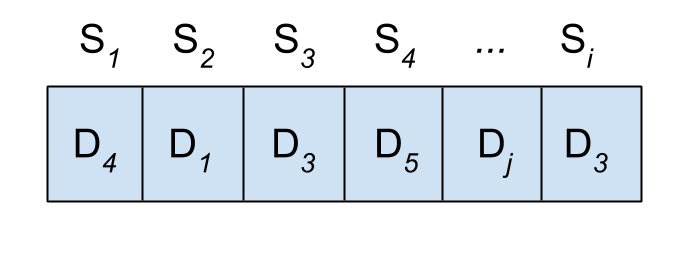
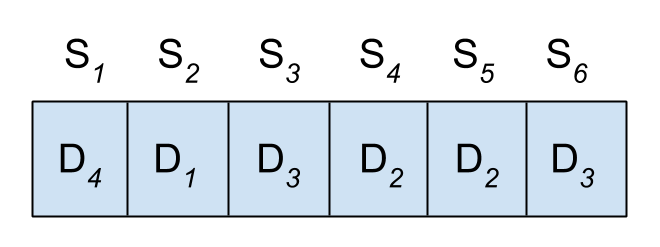
finished elenas/alexs comments, added disjoint cycles

Changed region(s): [[0.0303, 0.085, 0.9697, 0.9069], [0.0909, 0.085, 0.1818, 0.2834]]

diff --git a/SeniorSem2014.tex b/SeniorSem2014.tex
@@ -1,6 +1,6 @@
 \documentclass{sig-alternate}
 
-\title{Modern Techniques for Energy Optimization for Green Cloud Computing}
+\title{Modern Energy Optimization Techniques for Green Cloud Computing}
 
 \author{
 \alignauthor
@@ -20,16 +20,18 @@
 
 \begin{abstract}
 
-Place abstract here
+Energy consumption has become a growing concern for cloud computing data center as demand for instantaneous web-based services has increased. Energy optimization algorithms are used to reduce energy and make data centers more sustainable. Some algorithms focus on reducing power consumption of hardware while others use geographic location and renewable resources. 
+
+Our objective is to highlight two types of modern energy optimization algorithms that create a more sustainable, green cloud. 
 
 \end{abstract}
 
-\keywords{Cloud Computing, Green Computing}
+\keywords{Cloud Computing, Green Computing, Energy Optimization, Evolutionary Multi-Objective Algorithms}
 
 \section{Introduction} \label{sec:intro}
 
-Cloud Computing has been growing rapidly in the last several years in order to accommodate a growing demand for internet services. Due to this growth, larger data centers are required to meet demand. With larger data centers, an increasing amount power is necessary for these data centers to fulfill demands. In 2010, 1.5\% of all energy consumed worldwide was from data centers. In 2000, only about one fourth of that energy was used to power data centers~\cite{Yanggratoke}. In light of these staggering numbers, much research has been devoted to reducing power consumption. So far, two different approaches have been implemented to combat power consumption: macro-based and micro-based methods. Macro-based methods focus on exploiting data centers in diverse geographical locations that have higher levels of renewable energy or cooler climates. Micro-based methods focus on efficient resource allocation of data center components~\cite{Hassan}. A description of cloud computing, evolutionary algorithms, gossip-based protocol and the Hungarian method of assignment are provided in Section~\ref{Background}. Section~\ref{sec:MacAl} discusses a macro-based algorithm, and Section~\ref{sec:MicAl} provides details on mirco-based algorithms. The results of these algorithms are presented in Section~\ref{sec:results}, and ramifications of these algorithms are presented in Section~\ref{sec:conclusion}. Unfortunately, comparisons between these algorithms will not be discussed due to the fact that the algorithms were optimizing different parameters and there was not a standard representation of result data.
-\pagebreak
+Cloud Computing has been growing rapidly in the last several years in order to accommodate a growing demand for internet services. Due to this growth, additional and larger data centers are required to meet demand. With more data centers, an increasing amount of power is necessary. In 2000, only about 70 TWh of energy was consumed worldwide to power data centers. In 2010, approximately four times the energy, 271 TWh, was used by data centers or 1.5\% of all energy consumed in the world~\cite{Yanggratoke}. In light of these staggering numbers, much research has been devoted to reducing power consumption. So far, two different approaches have been implemented to reduce the carbon footprint of data centers: macro-based and micro-based methods. Macro-based methods focus on exploiting data centers in diverse geographical locations that have higher levels of renewable energy or cooler climates. Micro-based methods focus on efficient resource allocation of data center components~\cite{Hassan}. In this paper, we will consider both macro and micro-based algorithms that use various techniques such as evolutionary algorithms, gossip-based protocol and the Hungarian method of assignment. Description of these techniques along with a background in cloud computing will be provided in Section~\ref{Background}. Section~\ref{sec:MacAl} discusses a macro-based algorithm. Section~\ref{sec:MicAl} provides details on micro-based algorithms. The results of these algorithms are presented in Section~\ref{sec:results}. Next, ramifications of these algorithms are presented in Section~\ref{sec:conclusion}. Comparisons between these algorithms will not be discussed due to the fact that the algorithms were optimizing different parameters and there was not a standard representation of result data.
+
 \section{Background} 
 \label{Background}
 
@@ -38,33 +40,33 @@ In order for the reader to fully understand the material presented in this paper
 \subsection{Cloud Computing}
 \label{sec:Cloud Computing}
 
-In the last several years, cloud computing has become a prevalent service. Cloud computing pertains to both the applications services provided via the Internet and the hardware and systems software in data centers. Inside these data centers are an exuberant amount of servers (the hardware) managed by middleware (software that communicates between servers). These components make up what is called the \emph{cloud}~\cite{Armbrust}. Usually, large IT firms called \emph{providers}, such as Google or Amazon, provide the hardware and system software for these large data centers. However, these large IT firms have extra servers and rent them to smaller companies providing a relatively cheap system to compute in the cloud. 
+In the last several years, cloud computing has become a prevalent service. Cloud computing pertains to both the applications services provided via the Internet and the hardware and systems software in data centers. Inside these data centers are a copious amount of servers (the hardware) managed by middleware (software that communicates between servers). These components make up what is called the \emph{cloud}~\cite{Armbrust}. Usually, large IT firms called \emph{providers}, such as Google or Amazon, own large data centers that contain the hardware and system software. However, these large IT firms have extra servers beyond their own needs and rent them to smaller companies providing a relatively cheap system to compute in the cloud. 
 
-The workload on the cloud is amount of requests for service at a given time. A cloud is considered to be in \emph{overload} if there is not enough resources to handle all of the service requests. In order to provide a high quality of service, \emph{QoS}, the providers sign a service level agreement, \emph{SLA}, that requires them to fulfill these requests in a set amount of time. 
-
-\subsection{Evolutionary Multi-objective Optimization Algorithms (EMOA)}
-\label{sec:EMOA}
+The workload on the cloud is number of requests for service at a given time. A cloud is considered to be in \emph{overload} if there is not enough resources to handle all of the service requests. In order to provide a high quality of service, \emph{QoS}, the providers sign a service level agreement, \emph{SLA}, that requires them to fulfill these requests in a set amount of time. 
 
 \begin{figure}[tb]
  \centering
  \includegraphics[height=0.15 \textwidth]{Individual}
- \caption{Example of a individual that is a potential solution to assigning cloud services, $S_i$, to data centers, $D_j$. Individuals, in this case, are stored as an array with the indices corresponding to a cloud service and the elements of the array corresponding to the data center in which that service is placed.}
+ \caption{Example of a individual that is a potential solution to assigning cloud services, $S_i$, to data centers, $D_j$. Here is an individual with six services employed by the provider that are assigned to a total of four data centers.}
  \label{fig:EMOA}
 \end{figure}
 
-Evolutionary Computation~\cite{poli08:fieldguide} is based around the interactions of \emph{individuals}. Individuals are similar to organisms in biological evolution but contain a solution to a given problem, see Figure~\ref{fig:EMOA}. As in biological evolution, a group of individuals makes up a population. In the process of biological evolution and natural selection, organisms within a population compete in order to survive and reproduce. Individuals best adapted to their environment have the best chance of fulfilling these objectives.  In an \emph{evolutionary multi-objective optimization algorithm}, EMOA, individuals also compete, but here those individuals that provide closer solutions to all user-defined optimizations have the best odds. The goal of EMOAs is to produce a set of individuals that provide quality solutions in a reasonable amount of time. 
+\subsection{Evolutionary Multi-objective Optimization Algorithms (EMOA)}
+\label{sec:EMOA}
 
-At the beginning of an EMOA, a population is randomly initialized. The initial population then competes in order to be selected for alteration towards a better solution. For the purposes of this paper, we will discuss about binary tournament selection, although there are many different methods to select individuals to breed. Binary tournament selection is where two individuals are randomly chosen from the population, and the individual that is more optimized is selected as a parent. This is performed twice to obtain two parents.  These selected parents can propagate their genetic material to the next generation by two methods. The first and most common method is crossover, comparable to sexual reproduction, where two parents are selected from the current generation, and elements from each selected individual are combined to form a new individual in the next generation. The second method is mutation, in which an individual is selected and partial altered randomly, much like biological mutation. Crossover and mutation are utilized across multiple generations, until an optimized solution is found or until some sort of resource limit is reached. % need to explain what constitutes an individual in this case picture? and awkward working
+Evolutionary Computation~\cite{poli08:fieldguide} is based around the interactions of \emph{individuals}.  As in biological evolution, a group of individuals makes up a population. In biological evolution and natural selection, organisms within a population compete in order to survive and reproduce. Individuals best adapted to their environment have the best chance of fulfilling these objectives. In an \emph{evolutionary multi-objective optimization algorithm}, EMOA, individuals are similar to organisms in biological evolution but contain a potential solution to a given problem with many user-defined objectives, see Figure~\ref{fig:EMOA}. Individuals, in this case, are stored as an array with the indices corresponding to a cloud service and the elements of the array corresponding to the data center in which that service is placed.  Like organisms, individuals also compete, but here those individuals that provide closer solutions to all user-defined objectives have the best odds. The goal of EMOAs is to produce a set of individuals that provide quality solutions in a reasonable amount of time. 
+
+At the beginning of an EMOA, a population is randomly initialized. The initial population then competes in order to be selected to produce the next generation based on the quality of solution they provide. For the purposes of this paper, we will discuss about binary tournament selection, although there are many different methods to select individuals to alter. Binary tournament selection is where two individuals are randomly chosen from the population, and the individual that is more optimized is selected as a parent. This process is repeated to obtain a second parent.  The selected parents can propagate their configurations to the next generation by two methods. The first and most common method is crossover, comparable to sexual reproduction, where elements from each selected parent are combined to form a new individual in the next generation. The second method is mutation, in which a single parent is selected and partial altered randomly, much like biological mutation. Crossover and mutation are utilized across multiple generations, until a set of optimized solutions are found when some sort of resource limit is reached. % need to explain what constitutes an individual in this case picture? and awkward working
 
 \subsection{Gossip-based Protocol}
 \label{sec:GBP}
 
-\emph{Gossip-based}, GB, protocol acts exactly as the name gossip implies. A node which contains new information selects multiple nodes called \emph{peers} to spread new information to. The selection of peers is often probabilistic and therefore the number of peers is random. The act of spreading the information is called a \emph{round}. In the next round, each of the peers that received the information selects more peers to spread the information to. As more rounds are completed, all of the nodes eventually obtain the same new information~\cite{Yanggratoke}.
+\emph{Gossip-based} protocol acts exactly as the name implies. A node which contains new information selects multiple nodes called \emph{peers} to spread new information to. The selection of peers is often probabilistic and therefore there can be a range of peers. The act of spreading the information is called a \emph{round}. In the next round, each of the peers that received the information selects more peers to spread the information to. As more rounds are completed, all of the nodes eventually obtain the same new information~\cite{Yanggratoke}.
 
 \subsection{Hungarian Method of Assignment}
 \label{sec:HMA}
 
-The following describes the general procedure of the Hungarian Method of Assignment. The \emph{Hungarian Method of Assignment} uses a $n \times n$ cost matrix with respect to energy in Figure~\ref{fig:HMA}. to find a solution for the minimum configuration of server to job placement where rows and columns represent jobs and servers respectively~\cite{Han}. The matrix elements represent the amount of power placing a job onto a server. To find this configuration, we first subtract the smallest wattage in each row from all the entries of its row. Similarly, we subtract the smallest wattage (after rows have been subtracted) in each column from all entries in its column. After subtraction, the new cost matrix will have some number of zero entries. Since we only subtract the minimum entries,there will not be any negative entries. Draw lines through appropriate rows and columns so that all the zero entries of the cost matrix are covered and the minimum number of such lines is used.  If the number of lines is equal to n then there is an optimal solution. However, if the number of line is not equal, then we determine the smallest entry not covered by any line. Subtract this entry from each uncovered row, and then add it to each covered column repeating until there are n lines.  We then can easily determine the the optimal solution. 
+The following describes the general procedure of the Hungarian Method of Assignment. The \emph{Hungarian Method of Assignment} uses a $n \times n$ cost matrix with respect to energy (as seen in Figure~\ref{fig:HMA}) to find the least power consuming configuration of server to job placement. Rows and columns represent jobs and servers respectively~\cite{Han}. The matrix elements represent the amount of power placing a job onto a server. To find this configuration, we first subtract the smallest wattage in each row from all the entries of its row. Similarly, we subtract the smallest wattage (after rows have been subtracted) in each column from all entries in its column. After subtraction, the new cost matrix will have some number of zero entries. Since we only subtract the minimum entries, there will not be any negative entries. We draw lines through appropriate rows and columns so that all the zero entries of the cost matrix are covered and the minimum number of such lines is used.  If the number of lines is equal to \emph{n} then there is an optimal solution. However, if the number of lines is not equal to \emph{n}, then we determine the smallest entry not covered by any line. We subtract this entry from each uncovered row, and then add it to each covered column repeating until there are \emph{n} lines.  We then can easily determine the optimal solution. 
 
 \begin{figure}[tb]
  \centering
@@ -78,23 +80,23 @@ The following describes the general procedure of the Hungarian Method of Assignm
 \section{Macro-based Algorithms}
 \label{sec:MacAl}
 
-\emph{Green Monster} is an framework proposed by Phan et al that uses geographical location to maximize energy savings by mainly emphasizing the maximization of renewable energy. The EMOA, described in Section~\ref{sec:EMOA}, in Green Monster uses three optimization objectives: renewable energy consumption (RE), cooling energy consumption (CE), and user-to-service distance (USD). In order to get the best results, Green Monster looks to maximize RE, and minimize both CE and USD. By minimizing the USD, Green Monster attempts to minimize the response time to assure a high quality of service specified by the SLAs. Also, minimizing the CE implies that the energy consumed in the data center will be more heavily used for processing. In \ref{sec:GMEMOA}, we will discuss how the EMOA behind Green Monster works, and in \ref{sec:GMSims} we will look at simulations of Green Monster with real world data.~\cite{Phan}
+\emph{Green Monster} is a framework proposed by Phan et al~\cite{Phan} that uses geographical location to maximize energy savings by emphasizing the maximization of renewable energy. The EMOA, described in Section~\ref{sec:EMOA}, in Green Monster uses three optimization objectives: renewable energy consumption (RE), cooling energy consumption (CE), and user-to-service distance (USD). In order to get the best results, Green Monster looks to maximize RE, and minimize both CE and USD. By minimizing the USD, Green Monster attempts to minimize the response time to assure a high quality of service. Also, minimizing the CE implies that the energy consumed in the data center will be more heavily used for processing. In \ref{sec:GMEMOA}, we will discuss how the EMOA behind Green Monster works, and in \ref{sec:GMSims} we will look at simulations of Green Monster with real world data.
 
 \subsection{Green Monster EMOA}
 \label{sec:GMEMOA}
 
-Green Monster represents individuals an a configuration of all services (S$_{\text{\emph{i}}}$) in all data centers (D$_{\text{\emph{j}}}$). Each data center has a service capacity
+Green Monster represents individuals as a configuration of all services (S$_{\text{\emph{i}}}$) in all data centers (D$_{\text{\emph{j}}}$). Each data center has a service capacity
 %(C$_{\text{\emph{i}}}$) !!could put equations in for RE CE USD!! ~\ref{sec:EMOA} where to put?
-or the maximum workload a data center can handle. To initialize a population of \emph{N} individuals, the EMOA assigns random services to random data centers so that any given data center does not exceed the service capacity. If the service does exceed the service capacity, it will be assigned to the data center with the least workload. Upon completion, the EMOA uses binary tournament selection to select individuals for alteration. In this instance of binary tournament, the individual is selected by~\emph{constrained-dominance}. An individual, \emph{i},  is constrained-dominant to an individual, \emph{j}, if \emph{i} has the least amount of service capacity violations or if \emph{i} and \emph{j} do not have any violations \emph{i} is automatically constrained-dominant. When two parents are selected, crossover is performed determined by a crossover rate and two offspring are produced. Both of these offspring perform mutation determined by a mutation rate for each service. Mutating simply switches the current data center, D$_{\text{\emph{j}}}$, for a random new one.
+or the maximum workload a data center can handle. To initialize a population of \emph{N} individuals, the EMOA assigns random services to random data centers so that any given data center does not exceed the service capacity. If the service does exceed the service capacity, it will be assigned to the data center with the least workload. Upon completion of initialization, the EMOA uses binary tournament selection to select individuals for alteration. In this instance of binary tournament, the individual is selected by~\emph{constrained-dominance}. An individual, \emph{i}, is constrained-dominant to an individual, \emph{j}, if \emph{i} has the least amount of service capacity violations. Also, if \emph{i} and \emph{j} do not have any violations, we set \emph{i} to be automatically constrained-dominant even though either could be constrained-dominant. When two parents are selected, crossover is determined by a crossover rate and two offspring are produced. Both of these offspring perform mutation determined by a mutation rate that is relatively small for each service. Mutating simply switches the current data center, D$_{\text{\emph{j}}}$, for a random new one. The mutation rate is a small percentage because we want to ensure that the individual retains changes made from crossover and the majority of the individual is not randomized. 
 
-Phan et al then perform a local search based on a local search rate
-%should i put 10%
-for each S$_{\text{\emph{i}}}$. This local search checks to see if any D$_{\text{\emph{k}}}$ where ${\text{\emph{k} ${\neq}$ j}}$, could improve all optimizations without violating the service capacity. If D$_{\text{\emph{k}}}$ meets the previous criteria, then D$_{\text{\emph{k}}}$ replaces D$_{\text{\emph{j}}}$ in S$_{\text{\emph{i}}}$. This is done repeatedly until the same amount of individuals in the parent generation are in the next generation. In order for the best individuals to permeate to the next generation, Phan et al combine both the parent and offspring generations and sort them based on constrained-dominance. Phan et al then take only the first \emph{N} individuals. This whole process repeats until a certain number of generations is reached. 
+After mutation, Phan et al perform an additional optimization step not typically part of an EMOA: a local search based on a local search rate for each $S_{\text{\emph{i}}}$ on the offspring individuals. This local search checks to see if any D$_{\text{\emph{k}}}$ where ${\text{\emph{k} ${\neq}$ j}}$, could improve all optimizations without violating the service capacity. If D$_{\text{\emph{k}}}$ meets the previous criteria, then D$_{\text{\emph{k}}}$ replaces D$_{\text{\emph{j}}}$ in S$_{\text{\emph{i}}}$. 
+
+Selection, crossover, mutation, and local searches are repeated until the number of individuals in the new offspring generation is the same as in the parent generation. In order for the best individuals to permeate to the next generation, Phan et al combine both the parent and offspring generations and sort them based on constrained-dominance. Phan et al then take only the first \emph{N} individuals to be the next parent generation. This whole process repeats until a certain number of generations is reached. 
 
 \subsection{Green Monster Simulations}
 \label{sec:GMSims}
  
-Several simulations of Green Monster have been conducted based on statistics of nine data center in nine different European countries: Denmark, Germany, Greece, Ireland, Italy, Netherlands, Spain, UK and Portugal. Temperature data was used from European Climate Assessment \& Dataset project which records real temperature data in Europe. These countries were chosen based on the wide variety of climates and renewable energy. The average renewable energy production data was pulled from each country from January 2007 to December 2009. In each data center there are between 8-200 servers and 16-400 services consisting of voice, data, and video based on the countries population. For the simulation, Phan et al decided that every server will have the same specifications and each type of service was evenly distributed to all types of services. Data center configurations are given in Table~\ref{tab:DCConfig}.  Green Monsters EMOA in this simulation runs bi-weekly for twelve months. After running the EMOA with the configurations in Table~\ref{tab:EMOAConfig}, the individual that is the most optimized overall is selected. Green Monster will migrate service, S$_{\text{\emph{i}}}$, to data center, D$_{\text{\emph{j}}}$, according to solution presented by the optimized individual.
+Several simulations of Green Monster have been conducted based on statistics of nine data center in nine different European countries: Denmark, Germany, Greece, Ireland, Italy, Netherlands, Spain, UK and Portugal. Temperature data was used from European Climate Assessment \& Dataset project which records real temperature data in Europe. These countries were chosen based on the wide variety of climates and renewable energy. The average renewable energy production data was pulled from each country from January 2007 to December 2009. In each data center there are between 8-200 servers and 16-400 services consisting of voice, data, and video based on the countries population. For the simulation, Phan et al decided that every server will have the same specifications and each type of service was evenly distributed to all types of services. Data center configurations are given in Table~\ref{tab:DCConfig}.  Green Monster's EMOA in this simulation runs bi-weekly for twelve simulated months. After running the EMOA with the configurations in Table~\ref{tab:EMOAConfig}, the individual that is the most optimized overall is selected. Green Monster will migrate service, S$_{\text{\emph{i}}}$, to data center, D$_{\text{\emph{j}}}$, according to solution presented by the optimized individual.
 
 \begin{table}[tb]
 \begin{center}
@@ -138,7 +140,7 @@ Several simulations of Green Monster have been conducted based on statistics of 
 \section{Micro-based Algorithms} 
 \label{sec:MicAl}
 
-There are many different micro-based algorithms for a green cloud, but we will choose to focus on two algorithms underdevelopment: GRMP-Q, a gossip-based allocation algorithm and the speed-scaling algorithm by Yanggratoke et al. 
+There are many different micro-based algorithms for a green cloud, but we will choose to focus on two algorithms under development: GRMP-Q, a gossip-based allocation algorithm by Yanggratoke et al, and the speed-scaling algorithm by Han et al. 
 \subsection{Gossip-based Resource Allocation}
 \label{sec:GBRA}
 
@@ -146,18 +148,22 @@ There are many different micro-based algorithms for a green cloud, but we will c
 %\subsubsection{GRMP-Q Basics}
 %\label{subsec:GRMPBasics}
 
-\emph{GRMP-Q} is middleware for a data center that utilizes gossip protocol, described in Section~\ref{sec:GBP}, to minimize the amount of servers running services. Usually, providers rent specific servers by the hour to smaller companies. This, however, is not efficient. A single server working at  \emph{workload capacity}, or the maximum amount of services that a single server can handle, will be much more efficient than three servers working at one third of workload capacity. This is due to the minimum power level that a server must consume to be on. GRMP-Q attempts to migrate all services to the least number of servers possible.  For simplicity, Yanggratoke et al assume that all servers, \emph{N}, in a data center have identical specifications (power consumption, CPU, and memory capacities). For any given service, ($S_i$), the demand, \emph{$\omega_{S_i}$}, can be spread across multiple servers. The equation for demand $\omega_{(S_i,n)}$ on a single server \emph{n}, is given by \eqref{eq:1} where $\alpha_{(S_{i},n)}$ is a portion of the demand of $S_{i}$ running on server \emph{n}:
+\emph{GRMP-Q} is middleware for a data center that utilizes gossip protocol, described in Section~\ref{sec:GBP}, to minimize the number of servers running services. Usually, providers rent specific servers by the hour to smaller companies. This, however, is not efficient. A single server working at  \emph{workload capacity}, or the maximum number of services that a single server can handle, will be much more efficient than three servers working at one third of workload capacity. This is due to the minimum power level that a server must consume to be on. GRMP-Q attempts to migrate all services to the least number of servers possible.  For simplicity, Yanggratoke et al assume that all servers, \emph{N}, in a data center have identical specifications (power consumption, CPU, and memory capacities). For any given service, ($S_i$), the demand, \emph{$\omega_{S_i}$}, can be spread across multiple servers. The equation for demand $\omega_{(S_i,n)}$ on a single server \emph{n}, is given by \eqref{eq:1} where $\alpha_{(S_{i},n)}$ is a portion of the demand of $S_{i}$ running on server \emph{n}:
 \begin{equation}
-\omega(S_{i},n) = \alpha_{(S_{i},n)} \omega_{S_i} \text{\emph{~such that~}} \alpha_{(S_{i},n)} \geq 0,~ \sum_{n=1}^{N} \alpha_{(S_{i},n)} = 1 \label{eq:1}
+\omega_{(S_{i},n)} = \alpha_{(S_{i},n)} \omega_{S_i} \text{\emph{~such that~}} \alpha_{(S_{i},n)} \geq 0,~ \sum_{n=1}^{N} \alpha_{(S_{i},n)} = 1 \label{eq:1}
 \end{equation}
 
-Yanggratoke et al then placed all of the \emph{$\alpha_{(S_{i},n)}$} for every service into a matrix called \emph{the configuration matrix}. The configuration matrix, A, shows how the data center's resources are allocated to services. At certain times, load changes, addition of services, or change in the number of servers will cause the configuration matrix to be updated. 
+Yanggratoke et al then placed all of the \emph{$\alpha_{(S_{i},n)}$} for every service into a matrix called \emph{the configuration matrix}. The configuration matrix, \emph{A}, shows how the data center's resources are allocated to services. At certain times, load changes, addition of services, or change in the number of servers will cause the configuration matrix to be updated. 
 
-The first objective of GRMP-Q is to satisfy user demand by allocating enough resources so that the provider can satisfy the SLA. The second objective is to minimize power consumption. GRMP-Q does this by turning a server to stand-by if the total demand on the server is zero. If there is insufficient resources or the \emph{$\omega_{(S_{i+1},n)}$} of a new service, S$_{\text{\emph{(i+1)}}}$, is greater than the workload capacity, $\Omega$, the system will turn a stand-by server on. 
+The first objective of GRMP-Q is to satisfy user demand by allocating enough resources so that the provider can satisfy the SLA. The second objective is to minimize power consumption. GRMP-Q does this by turning a server to stand-by if the total demand on the server is zero. If there is insufficient resources or the \emph{$\omega_{(S_{i+1},n)}$} of a new service, $S_{i+1}$, is greater than the workload capacity, $\Omega$, the system will turn a stand-by server on. 
 
-In order to transfer one service to another service there are three gossip-based processes that occur. The first process is initialization which initializes the gossip protocol for the current configuration matrix at a random server \emph{n}.  The second process chooses a peer from the configuration matrix by randomly selecting a different server, \emph{j}, with $\alpha > 0$. After a peer is selected, the relative demand, \emph{y}, on server \emph{n} is calculated by taking the sum of \emph{$\omega$} of all services on \emph{n} divided by the workload capacity of \emph{n} shown in~\eqref{eq:2}.
+In order to transfer one service to another service there are three gossip-based processes that occur. The first process is initialization which initializes the gossip protocol for the current configuration matrix at a random server \emph{n}.  The second process chooses a peer from the configuration matrix by randomly selecting a different server, \emph{j}, whose $\alpha > 0$ and is in the set $N_{n}$ where $N_{n}$ is the set of servers in \emph{A} with similar types of services to \emph{n}. However, in order to avoid selection in disjoint sets of servers, Yanggratoke et al select a server from $N_{n}$ \emph{p} percent of the time and a different server in \emph{A} with $\alpha > 0$ , $1-p$ percent of the time. The equation for \emph{p} in given in~\eqref{probability}.
 \begin{equation}
-y_n = \sum_{i=1}^M \omega_{(S_i,n)}/\Omega \textit{~where M is the total num of services}\label{eq:2}
+p = \frac{|N_{n}|}{1+|N_{n}|}\label{probability}
+\end{equation}
+After a peer is selected, the relative demand, \emph{y}, on server \emph{n} is calculated by taking the sum of \emph{$\omega$} of all services on \emph{n} divided by the workload capacity of \emph{n} shown in~\eqref{eq:2}.
+\begin{equation}
+y_n = \sum_{i=1}^M \frac{\omega_{(S_i,n)}}{\Omega} \textit{~where M is the total num of services}\label{eq:2}
 \end{equation}
 
 If $y_n + y_j \geq 2$, the algorithm assumes based on these two servers that the cloud is in overload and will move services to the server that has a smaller relative demand. However, if $y_n + y_j < 2$, then algorithm assumes the cloud is in \emph{underload} (there are unused resources on some active servers). When the cloud is in underload, GRMP-Q then packs services in such a manner that the server with the highest relative demand of $y_n$ and $y_j$ migrates services so that demand is equal to $\Omega$. This ensures that one server is fully packed and the other is less than $\Omega$. Since this algorithm is gossip-based,  comparisons of two servers will occur continuously~\cite{Yanggratoke}.  
@@ -169,20 +175,20 @@ If $y_n + y_j \geq 2$, the algorithm assumes based on these two servers that the
 
 \subsection{Speed-Scaling}
 \label{sec:Speed}
-In this version of speed scaling, Han et al use a combination of performance optimization and job placement to make data centers more energy efficient. Han et al define the power consumption with respect to CPU speed, \emph{s}, given by \eqref{eq:3}. 
+In this version of speed scaling, Han et al use a combination of performance optimization and job placement to make data centers more energy efficient. Han et al define the power consumption with respect to CPU speed, \emph{s}, given by \eqref{eq:3}. Let \emph{j} be a specific job and i the server number.
 \begin{equation}
-P_{i,j} = s_{i,j}^{\gamma}+ c \textit{~where j is a specific job and i is the server number}\label{eq:3}
+P_{i,j} = s_{i,j}^{\gamma}+ c \textit{,}\label{eq:3}
 \end{equation}
 \begin{equation}
-W_{i} =\sum_{j=1}^J \lambda_{j} \times P_{i,j}\textit{~where J is the total number of jobs}\label{eq:4}
+W_{i} =\sum_{j=1}^J \lambda_{j} \times P_{i,j}\textit{~where J is the total number of jobs,}\label{eq:4}
 \end{equation}
 \begin{equation}
-U =\sum_{i=1}^M W_{i} \textit{~where M is the total number of servers}\label{eq:5}
+U =\sum_{i=1}^M W_{i} \textit{~where M is the total number of servers,}\label{eq:5}
 \end{equation}
+\noindent
+where $c$ accounts for static power loss and $\gamma$ is a constant that was computed experimentally. Han et al found $\gamma \approx 3$ for the relationship between speed and power. In order to relate jobs and the QoS, jobs have a weighted positive integer $\lambda_j$ that denotes the level of QoS for job \emph{j}. The total weighted power for a server is shown in \eqref{eq:4} such that \emph{J} is the total number of jobs on the server. The total weighted power, U, is given by \eqref{eq:5} where \emph{M} is the total number of servers in the data center.
 
-where $c$ accounts for static power loss and $\gamma$ is some constant that was computed experimentally. Han et al found $\gamma \approx 3$ for the relationship between speed and power. In order to relate jobs and the QoS, jobs have a weighted positive integer $\lambda_j$ that denotes the level of QoS for job \emph{j}. The total weighted power for a server is shown in \eqref{eq:4} such that \emph{j} is the total number of jobs on the server. The total weighted power, U, is given by \eqref{eq:5} where \emph{M} is the total number of servers in the data center.
-
-Han et al assume for this algorithm that there are \emph{j} jobs and \emph{M} servers. Han et al then adopt an implementation of the Hungarian method of assignment described in Section~\ref{sec:HMA}, to assign jobs to servers. Han et al then hypothetically migrate the jobs to the appropriate servers, adjusts the speeds of CPUs such that there is no extra processing power utilized, and then recomputes U. If the $\Delta U \geq 0$ then the algorithm will actually migrate the jobs to the appropriate servers~\cite{Han}. 
+Han et al assume for this algorithm that there are \emph{J} jobs and \emph{M} servers. Han et al then adopt an implementation of the Hungarian method of assignment described in Section~\ref{sec:HMA}, to assign jobs to servers. Han et al then hypothetically migrate the jobs to the appropriate servers, adjusts the speeds of CPUs such that there is no extra processing power utilized, and then recomputes U. If the $\Delta U \geq 0$ then the algorithm will actually migrate the jobs to the appropriate servers~\cite{Han}. 
 
 \section{Results} 
 \label{sec:results}
@@ -197,9 +203,10 @@ The results of the three different algorithms are discussed in this section.
     \hline
     \multicolumn{4}{|c|}{\textbf{Daily Averaged Objective Values for Green Monster}} \\
     \hline
-    & RE &  CE & USD \\
+    & Renewable &  Cooling & User-to-Service \\
+    & Energy & Energy & Distance \\
     \hline
-    Static (\emph{N}) & 324.5 & 949.58 & 0 \\
+    Static & 324.5 & 949.58 & 0 \\
     Random rate & 327.3 & 947.34 & 487378\\
    	Green Monster & 438.5 & 919.02 & 373172\\
     \hline
@@ -209,13 +216,13 @@ The results of the three different algorithms are discussed in this section.
 \end{center}
 \end{table}
 
-Phan et al simulated their algorithm in comparison to two benchmark algorithms, static placement policy and a random placement policy. Static placement randomly selects two services and places them on each server for the duration of the simulation. Random placement dynamically migrates biweekly by using the random initial population generation described in Section~\ref{sec:GMEMOA}. According to the results in Table~\ref{tab:GMV}, Green Monster consumed a significantly higher amount of renewable energy than either static or random. The daily average of RE utilized by Green Monster was 111 MWH, or 33.9\%, more than either algorithm. This shows that Green Monster migrates services to more renewable data centers.  Table~\ref{tab:GMV} also illustrated that Green Monster saves more cooling energy than the other algorithms. Green Monster saves 3.2\% more cooling energy than the random placement algorithm on a daily average basis. However, the main focus was to maximize renewable energy. Green Monster also surpassed random placement yielding a 23.4\% shorter USD than random.  Notice that static placement has a USD of zero. This is because the static placement does not migrate any service during the twelve months~\cite{Phan}.   
+Phan et al simulated their algorithm in comparison to two benchmark algorithms: static placement policy and a random placement policy. Static placement randomly selects two services and places them on each server for the duration of the twelve month simulation. Random placement dynamically migrates biweekly by using just the random initial population generation described in Section~\ref{sec:GMEMOA}. Results are summarized in Table~\ref{tab:GMV}, Green Monster consumed a significantly higher amount of renewable energy than either static or random. The daily average of renewable energy utilized by Green Monster was 111 MWH, or 33.9\%, more than either algorithm. This shows that Green Monster migrates services to more renewable data centers.  Table~\ref{tab:GMV} also illustrated that Green Monster saves more cooling energy than the other algorithms. Green Monster saved 3.2\% more cooling energy than the random placement algorithm on a daily average basis. However, the main focus was to maximize renewable energy. Green Monster also surpassed random placement yielding a 23.4\% shorter user-to-service distance than random.  Notice that static placement has a user-to-service distance of zero. This is because the static placement does not migrate any service during the twelve months~\cite{Phan}.   
 
 
 \subsection{GRMP-Q}
 \label{sec:GRMP-Q}
 
-GRMP-Q was simulated on a data center with 10,000 servers in order to analyze the reduction of power. Yanggratoke et al implemented several different loads on the cloud: 10\%, 40\%, 70\%, 100\%, 130\% of the CPU resources in the cloud shown in Figure~\ref{fig:Results_PR}. When the load on the cloud was small, 10\%, the reduction of power increased by 85\% from a cloud in which none of the servers switch to stand-by. As expected, power reduction becomes smaller but still saves around 15\% of power at a cloud load of 70\%.  However, this algorithm does not provides any benefit from an overloaded cloud.  In order to test if this algorithm was scalable, Yanggratoke et al ran simulations for a cloud with as little as 2,500 servers to as many as 160,000 servers evaluated at a cloud load of 25\% and 50\%. In all cases, Yanggratoke et al found that the amount of servers does not affect the amount of power reduction. Power reductions were around 25\% and 60\% for a cloud load of 25\% and 50\% respectively~\cite{Yanggratoke}.  
+GRMP-Q was simulated on a data center with 10,000 servers in order to analyze the reduction of power. Yanggratoke et al implemented several different loads on the cloud: 10\%, 40\%, 70\%, 100\%, 130\% of the CPU resources in the cloud shown in Figure~\ref{fig:Results_PR}. When the load on the cloud was small, 10\%, the reduction of power increased by 85\% from a cloud in which none of the servers switch to stand-by. As expected, power reduction becomes smaller but still saves around 15\% of power at a cloud load of 70\%.  However, this algorithm does not provide any benefit for an overloaded cloud.  In order to test if this algorithm was scalable, Yanggratoke et al ran simulations for a cloud with as little as 2,500 servers to as many as 160,000 servers evaluated at a cloud load of 25\% and 50\%. In all cases, Yanggratoke et al found that the number of servers does not affect the amount of power reduction. Power reductions were around 25\% and 60\% for a cloud load of 25\% and 50\% respectively~\cite{Yanggratoke}.  
 
 %add scalablitity graph not exciting.
 
@@ -228,28 +235,25 @@ GRMP-Q was simulated on a data center with 10,000 servers in order to analyze th
 \subsection{Speed Scaling}
 \label{sec:SS}
 
-Han et al simulate their algorithm in comparison with a non-power aware policy and a dynamic voltage and frequency scaling, \emph{DVFS}, policy. In a non-power aware (\emph{NPA}) system, there are no optimizations regarding placement of jobs. In a DVFS, all servers are set to proportional speeds by estimating the CPU speed required for its current running jobs. DVFS will also adjust the voltage which means that circuits in the processor will switch more slowly with a lower voltage. In Figure~\ref{fig:Results_SS},  we can clearly see results indicate that the proposed algorithm uses significantly less energy per hour than either NPA or DVFS policies~\cite{Han}.
+Han et al simulated their algorithm in comparison with a non-power aware policy and a dynamic voltage and frequency scaling (\emph{DVFS}) policy. In a non-power aware (\emph{NPA}) system, there are no optimizations regarding placement of jobs. In a DVFS, all servers are set to proportional speeds by estimating the CPU speed required for its current running jobs. DVFS will also adjust the voltage which means that circuits in the processor will switch more slowly with a lower voltage. In Figure~\ref{fig:Results_SS},  we can clearly see results indicating that the proposed algorithm uses significantly less energy per hour than either NPA or DVFS policies~\cite{Han}.
 
 %scalability? from figure
 
 \begin{figure}[tb]
  \centering
- \includegraphics[height=0.2 \textwidth]{s4}
+ \includegraphics[height=0.24 \textwidth]{s4}
  \caption{Number of servers with respect to power in kilowatt hours. Non-power aware (\emph{NPA}). Dynamic Voltage and Frequency Scaling (\emph{DVFS}). Han et al's algorithm (\emph{SS}).}
  \label{fig:Results_SS}
 \end{figure}
 
 \section{Conclusions} 
 \label{sec:conclusion}
-
-From the results, we can tell that both micro-based and macro-based algorithms produce a greener data center even though they use completely distinct methods to do so.  Green Monster focuses on migrating services to different data centers so that more renewable energy is conserved. GRMP-Q targets the packing of services into in minimum amount of servers possible. Han et al centers around adjusting CPU frequency and voltage while optimizing the placement of jobs on servers. Since cloud computing is still relatively new and growing, there is considerable potential to reduce power even further. Combinations of both micro and macro will undoubtedly be used together to reduce power consumption of data centers.
+The growth of cloud computing has created significant increases of power consumption from data centers. Implementing energy optimization techniques in data centers are an important part of creating a greener cloud. From the simulated results, we can tell that both micro-based and macro-based algorithms produce a greener data center even though they use completely distinct methods to do so. Green Monster focuses on migrating services to different data centers so that more renewable energy is conserved. GRMP-Q targets the packing of services into in minimum number of servers possible. Han et al centers around adjusting CPU frequency and voltage while optimizing the placement of jobs on servers. Since cloud computing is still relatively new and growing, there is considerable potential to reduce power even further. Combinations of both micro and macro will undoubtedly be used together to reduce power consumption of data centers.
 
 \section*{Acknowledgements}
 
-Many thanks to my advisor, Elena Machkasova, and somebody else for being my second reader. 
+Many thanks to my advisor, Elena Machkasova, and second reader, Alex Jarvis, for their time and many helpful comments and criticisms. 
 
-
-\pagebreak
 \bibliographystyle{acm}
 \bibliography{annotated_bibliography}
 

diff --git a/SeniorSem2014Slides.tex b/SeniorSem2014Slides.tex
@@ -79,8 +79,7 @@
   \begin{itemize}
 	\item Data centers account for a significant fraction of all electricity used in the world.
 	\item Large demand for cloud computing means providers must find ways to reduce energy.
-	\item Databases allow examination of the internal interactions of a run.
-	\item Different approaches to algorithms 
+	\item High incentive for reduction of energy.
 	\item Implementing these techniques may be used to improve data center efficiency.  
   \end{itemize}
 
